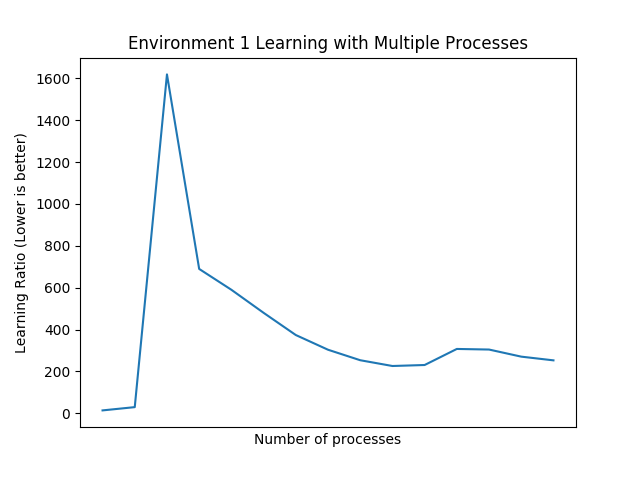
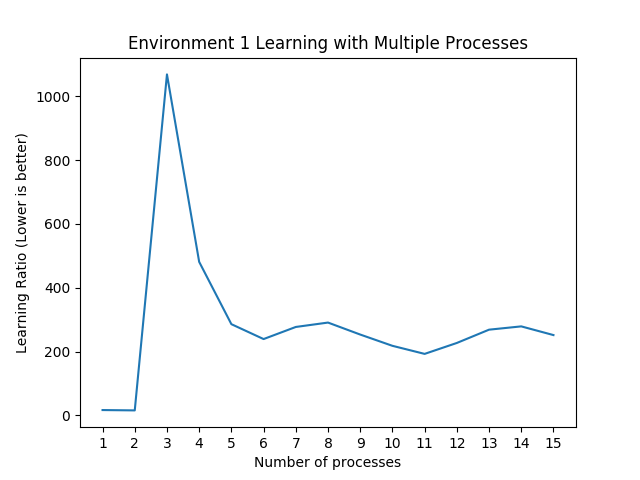
change random seed. There's a lot of varience with this.. not sure where to go next

diff --git a/qlearning_multiprocess.py b/qlearning_multiprocess.py
@@ -177,10 +177,10 @@ def main():
     #create process manager
     mgr = mp.Manager()
     graph_ratios = []
+    rand.seed(1) # seed with static value for testing purposes
 
     #Perform learning from scratch with 1 to 10 processes
     for proc in range(1, PROC_MAX+1):
-        rand.seed()
 
         #timer for checking runtimes
         start_time = timeit.default_timer()
